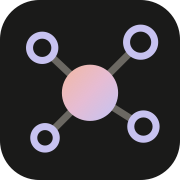
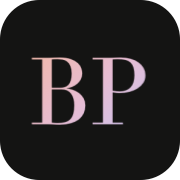
Add files via upload

Changed region(s): [[0.1389, 0.1111, 0.8889, 0.8611]]

diff --git a/404.html b/404.html
@@ -9,7 +9,6 @@
   <link rel="preconnect" href="https://fonts.gstatic.com" crossorigin>
   <link rel="stylesheet" href="https://fonts.googleapis.com/css2?family=Italiana&amp;display=swap">
   <link rel="stylesheet" href="/styles.css">
-  <link rel="icon" href="/favicon.svg" type="image/svg+xml">
   <link rel="icon" href="/favicon-32.png" sizes="32x32" type="image/png">
   <link rel="apple-touch-icon" href="/apple-touch-icon.png">
   <!-- Ahrefs Web Analytics (cookieless visitor stats) -->

diff --git a/index.html b/index.html
@@ -28,7 +28,6 @@
     "knowsAbout": ["Link building", "Off-page SEO", "Outreach", "Digital PR", "International SEO", "iGaming SEO", "AI-assisted SEO workflows"]
   }
   </script>
-  <link rel="icon" href="/favicon.svg" type="image/svg+xml">
   <link rel="icon" href="/favicon-32.png" sizes="32x32" type="image/png">
   <link rel="apple-touch-icon" href="/apple-touch-icon.png">
   <!-- Ahrefs Web Analytics (cookieless visitor stats) -->

diff --git a/README.md b/README.md
@@ -11,7 +11,7 @@ My personal portfolio website: who I am, how I approach outreach and what my Dig
 | `digital-pr/index.html` | What my Digital PR work covers |
 | `404.html` | The page people see when a link is broken (Google is told not to index it) |
 | `styles.css` | The look of every page. Colours are at the top, in the `:root` block |
-| `favicon.svg`, `favicon-32.png`, `apple-touch-icon.png` | The small icon in the browser tab and on phone home screens |
+| `favicon-32.png`, `apple-touch-icon.png` | The small "BP" icon in the browser tab and on phone home screens. `favicon.svg` is the design they are made from |
 | `robots.txt` | Rules for search engine and AI bots: everything is allowed |
 | `sitemap.xml` | List of all pages for Google. Update `lastmod` when a page changes |
 
